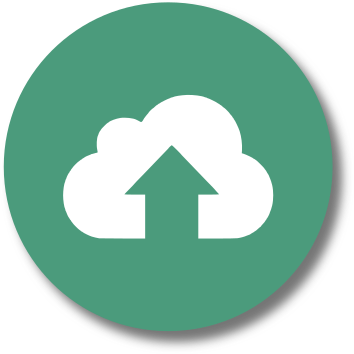
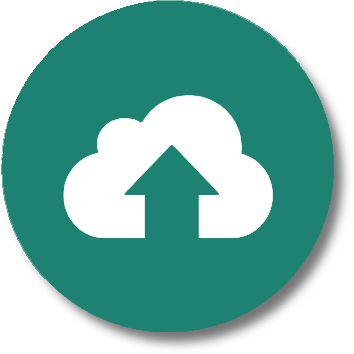
SLUG-49 changed assets and colors

diff --git a/src/theme/variables.scss b/src/theme/variables.scss
@@ -35,11 +35,11 @@ $app-direction: ltr;
 // The "primary" color is the only required color in the map.
 
 $colors: (
-  primary:    #4b9b7c,
-  secondary:  #567621,
-  danger:     #f53d3d,
-  light:      #b9babd,
-  dark:       #252525
+  primary:    #1E8272,
+  secondary:  #28BAA5,
+  danger:     #fc4b5f,
+  light:      #cccccc,
+  dark:       #3d3d3d
 );
 
 $fab-size: 80px;
